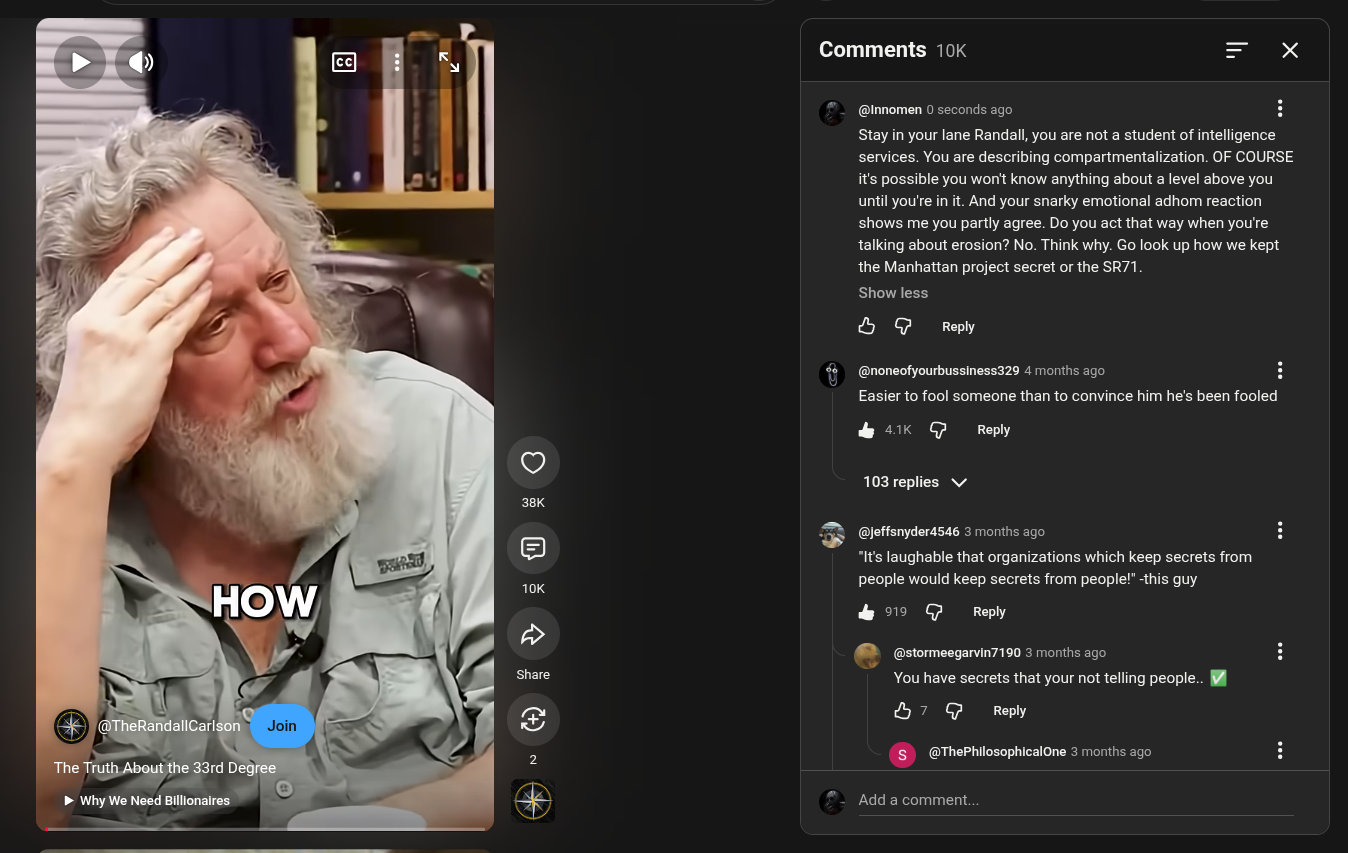
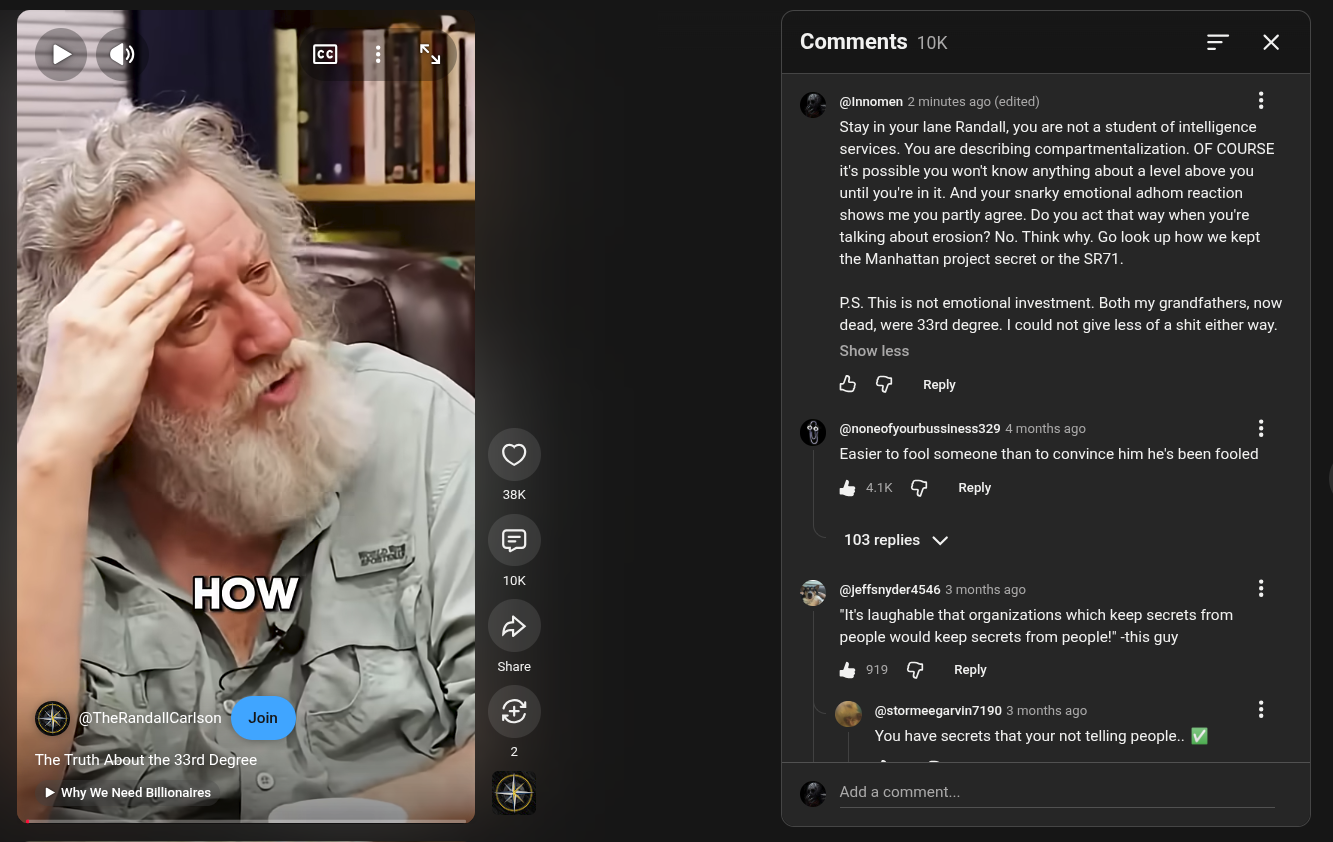
sync: 2 file change(s) 2026-10-18 11:26:54

diff --git a/ocr/Screenshot_20261018_112433.md b/ocr/Screenshot_20261018_112433.md
@@ -1,8 +1,8 @@
 ---
 type: public-take-ocr
 source_image: "../Screenshot_20261018_112433.png"
[1 lines of base64/hex data omitted]
-captured: "2026-10-18T11:24:48-05:00"
[1 lines of base64/hex data omitted]
+captured: "2026-10-18T11:26:48-05:00"
 ocr_engine: tesseract-5
 status: machine-transcribed
 tags: [my-takes, public-take, ocr]
@@ -14,16 +14,18 @@ tags: [my-takes, public-take, ocr]
 
 ## Machine transcription
 
-> Why We Need Billionalres
+» Why We Need Billionaires
 
-Comments 10K = X
+Comments 10K
 
 =
 
-U
+T @effsnyderasas 3 months ago
 
-@Innomen 0 seconds ago
+|
+X
 
+@Innomen 2 minutes ago (edited)
 Stay in your lane Randall, you are not a student of intelligence
 services. You are describing compartmentalization. OF COURSE
 it's possible you wont know anything about a level above you
@@ -32,30 +34,27 @@ shows me you partly agree. Do you act that way when you're
 talking about erosion? No. Think why. Go look up how we kept
 the Manhattan project secret or the SR71.
 
+PS. This is not emotional investment. Both my grandfathers, now
+dead, were 33rd degree. | could not give less of a shit either way.
+
 Show less
 
 & @ Reply
 
 @noneofyourbussiness329 4 months ago
+
 Easier to fool someone than to convince him he's been fooled
 
 & 4K @ Reply
 
 103 replies v/
 
-@leffsnyderasas 3 months ago
-
 “It's laughable that organizations which keep secrets from
 people would keep secrets from people!” -this guy
 
 & 09 G Repy
 
-’ (@stormeegarvin7190 3 months ago
-g
+@  @stormeegarvin7190 3 months ago.
 You have secrets that your not telling people.. ¥l
-
-H7 @G repy
-
-. (@ThePhilosophicalone 3 months ago
 
 - Add a comment.
